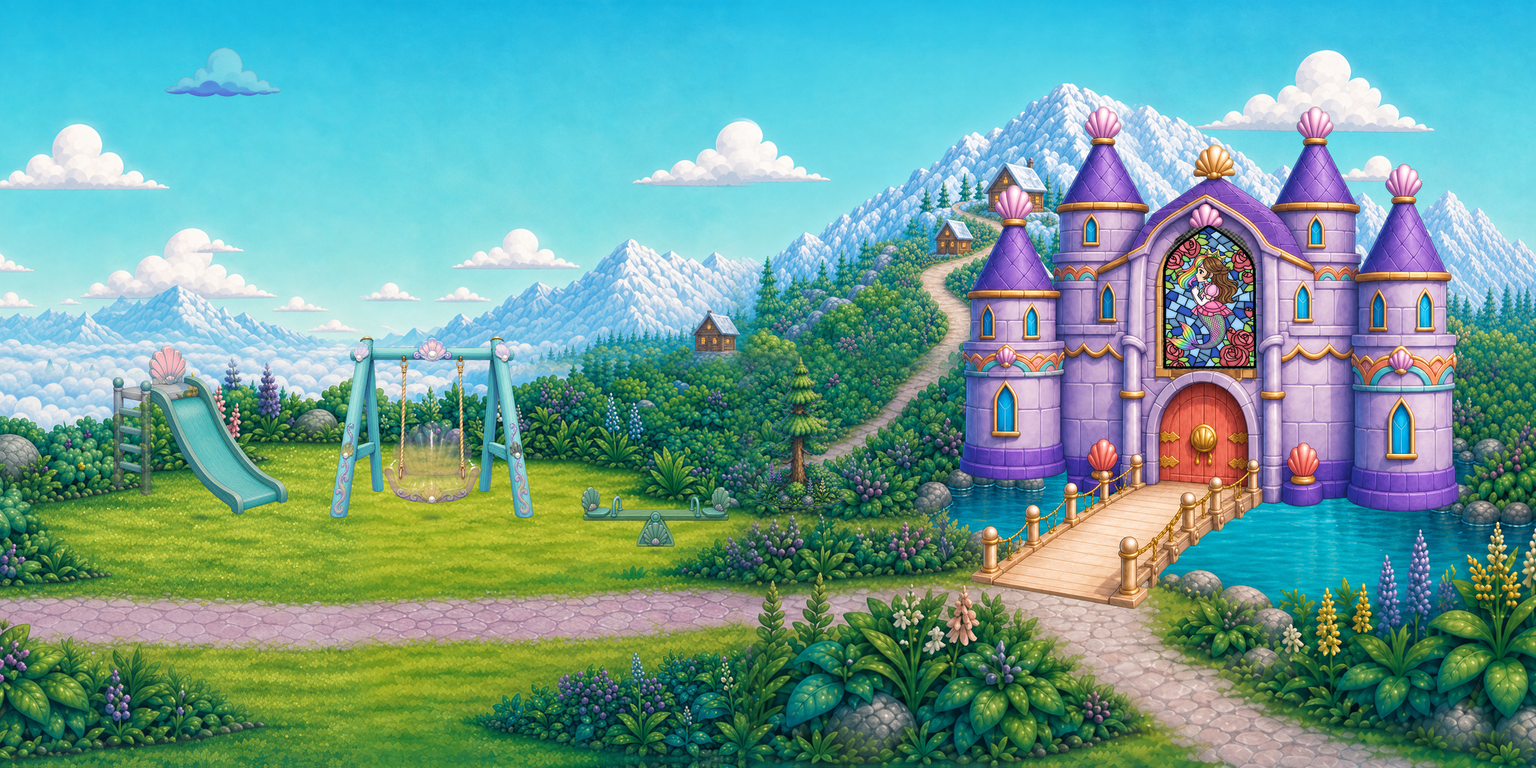
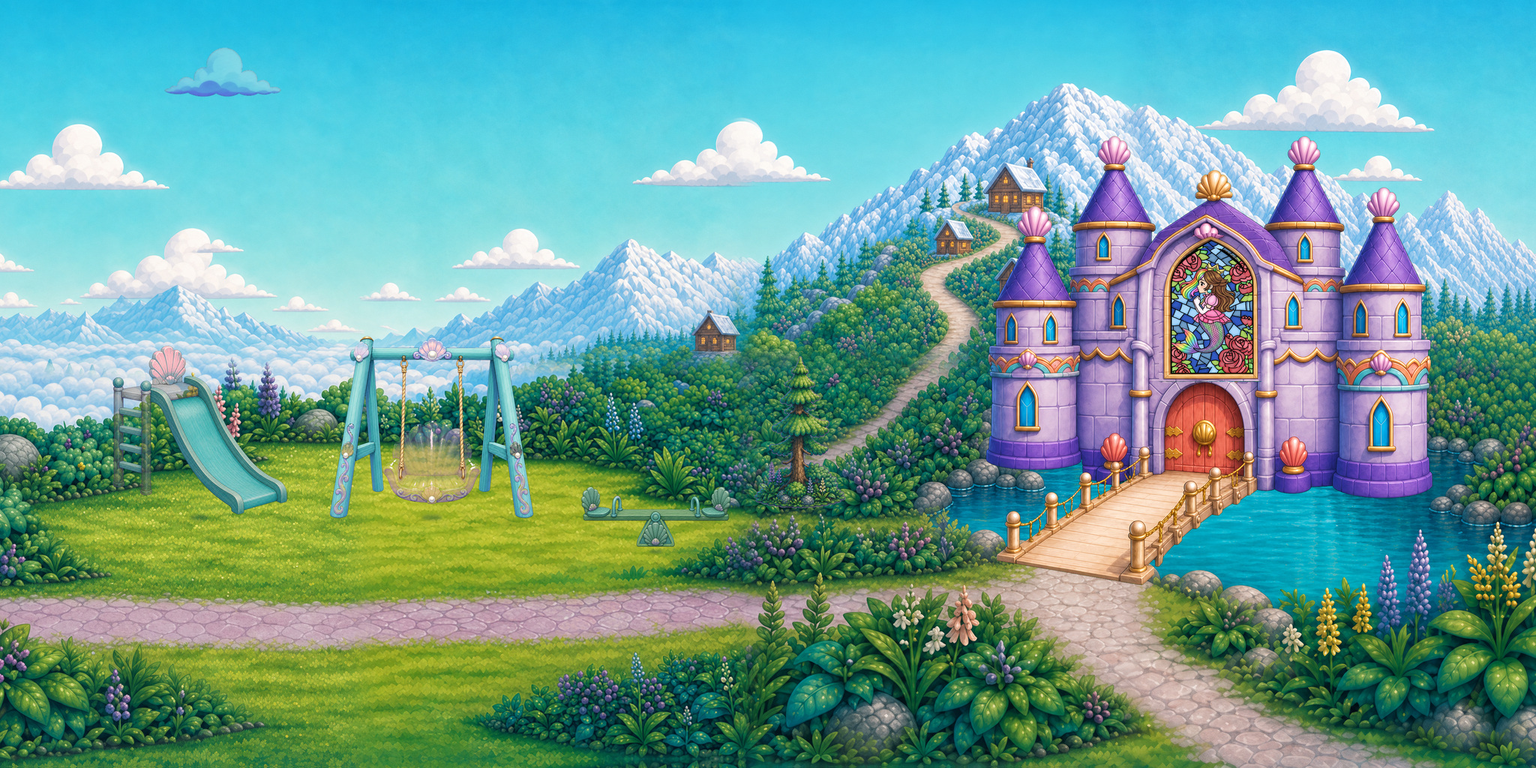
Fix castle frame and focus only the door

Changed region(s): [[0.625, 0.125, 0.9688, 0.8125]]

diff --git a/tools/prepare_sky_lagoon_castle_symmetry.py b/tools/prepare_sky_lagoon_castle_symmetry.py
@@ -16,13 +16,22 @@ RAW_CARD = SOURCE_DIR / "four_tower_candidate_transparent_raw.png"
 FALLBACK_CARD = (
 	ROOT / "assets/sprites/sky_lagoon/sky_lagoon_castle_stained_glass_v1.png"
 )
+V3_CARD = (
+	ROOT / "assets/sprites/sky_lagoon/sky_lagoon_castle_four_tower_v3.png"
+)
+FRAME_REPAIR_SOURCE = (
+	SOURCE_DIR / "frame_restore_ring_source.png"
+)
 OWNER_STAINED_GLASS = (
 	ROOT
 	/ "assets_src/sky_lagoon/reductive_rebuild_2026-07-28"
 	/ "stained_glass_owner_reference.png"
 )
 OUTPUT_CARD = (
-	ROOT / "assets/sprites/sky_lagoon/sky_lagoon_castle_four_tower_v3.png"
+	ROOT / "assets/sprites/sky_lagoon/sky_lagoon_castle_four_tower_v4.png"
+)
+DOOR_HIGHLIGHT = (
+	ROOT / "assets/sprites/sky_lagoon/sky_lagoon_castle_door_focus_v1.png"
 )
 AUDIT_REPORT = SOURCE_DIR / "four_tower_fit_audit.json"
 
@@ -44,6 +53,56 @@ OWNER_CROP = (101, 8, 780, 1176)
 GUTTER = 10
 MAX_EDGE = 1024
 BRIDGE_AUDIT_FRACTION = 0.90
+
+# The tightly scoped repair candidate supplies only its clean lavender/gold
+# ring. The owner panel and every other castle pixel remain from the accepted
+# four-tower card; the candidate's changed castle, door, bridge, and glass are
+# explicitly rejected.
+FRAME_REPAIR_SOURCE_BOX = (0, 0, 249, 360)
+RESTORED_FRAME_TARGET_BOX = (396, 225, 629, 560)
+RESTORED_FRAME_ALLOWED_BOX = (395, 223, 631, 563)
+RESTORED_FRAME_POLYGON = (
+	(512, 225),
+	(556, 235),
+	(589, 256),
+	(614, 290),
+	(627, 329),
+	(627, 560),
+	(398, 560),
+	(398, 329),
+	(411, 290),
+	(436, 256),
+	(469, 235),
+)
+GLASS_SAFE_POLYGON = (
+	(512, 257),
+	(546, 264),
+	(572, 281),
+	(589, 309),
+	(597, 339),
+	(597, 527),
+	(427, 527),
+	(427, 339),
+	(435, 309),
+	(452, 281),
+	(478, 264),
+)
+
+# Door mask is intentionally inside the lavender stone arch. It becomes a
+# small cropped focus texture, avoiding a second full-castle transparent quad.
+DOOR_MASK_POLYGON = (
+	(512, 560),
+	(548, 569),
+	(579, 592),
+	(598, 628),
+	(604, 660),
+	(604, 780),
+	(414, 780),
+	(414, 660),
+	(421, 628),
+	(445, 592),
+	(476, 569),
+)
 
 # The approved fallback's world transform is the placement contract. The new
 # card derives its height, center, and bridge-axis offset from these values so
@@ -134,6 +193,60 @@ def _placement_contract(
 	}
 
 
+def _restore_clean_frame(
+	card: Image.Image,
+	_window_polygon: list[tuple[int, int]],
+) -> tuple[Image.Image, tuple[int, ...]]:
+	with Image.open(FRAME_REPAIR_SOURCE) as repair_source:
+		repair = repair_source.convert("RGBA")
+	frame = repair.crop(FRAME_REPAIR_SOURCE_BOX).resize(
+		(
+			RESTORED_FRAME_TARGET_BOX[2] - RESTORED_FRAME_TARGET_BOX[0],
+			RESTORED_FRAME_TARGET_BOX[3] - RESTORED_FRAME_TARGET_BOX[1],
+		),
+		Image.Resampling.LANCZOS,
+	)
+	layer = Image.new("RGBA", card.size)
+	layer.paste(
+		frame,
+		(RESTORED_FRAME_TARGET_BOX[0], RESTORED_FRAME_TARGET_BOX[1]),
+		frame,
+	)
+	outer_mask = Image.new("L", card.size, 0)
+	ImageDraw.Draw(outer_mask).polygon(RESTORED_FRAME_POLYGON, fill=255)
+	inner_mask = Image.new("L", card.size, 0)
+	ImageDraw.Draw(inner_mask).polygon(GLASS_SAFE_POLYGON, fill=255)
+	mask = ImageChops.subtract(outer_mask, inner_mask)
+	mask = mask.filter(ImageFilter.GaussianBlur(0.35))
+	before = card.copy()
+	card = Image.composite(layer, card, mask)
+	diff_box = ImageChops.difference(before, card).getbbox()
+	if diff_box is None:
+		raise RuntimeError("stained-glass frame repair made no change")
+	return card, diff_box
+
+
+def _build_door_highlight(card: Image.Image) -> tuple[Image.Image, tuple[int, ...]]:
+	mask = Image.new("L", card.size, 0)
+	ImageDraw.Draw(mask).polygon(DOOR_MASK_POLYGON, fill=255)
+	mask = ImageChops.multiply(mask, card.getchannel("A"))
+	mask = mask.filter(ImageFilter.GaussianBlur(0.55))
+	bounds = mask.getbbox()
+	if bounds is None:
+		raise RuntimeError("door focus mask is empty")
+	padding = 2
+	bounds = (
+		max(0, bounds[0] - padding),
+		max(0, bounds[1] - padding),
+		min(card.width, bounds[2] + padding),
+		min(card.height, bounds[3] + padding),
+	)
+	cropped_mask = mask.crop(bounds)
+	highlight = Image.new("RGBA", cropped_mask.size, (255, 255, 255, 0))
+	highlight.putalpha(cropped_mask)
+	return highlight, bounds
+
+
 def build() -> None:
 	with Image.open(RAW_CARD) as source:
 		raw = source.convert("RGBA")
@@ -204,6 +317,22 @@ def build() -> None:
 		raise RuntimeError(
 			f"stained-glass restoration escaped its frame: {diff_box}"
 		)
+	card, frame_diff_box = _restore_clean_frame(card, window_polygon)
+	with Image.open(V3_CARD) as v3_source:
+		v3_card = v3_source.convert("RGBA")
+	v3_diff_box = ImageChops.difference(v3_card, card).getbbox()
+	if v3_diff_box is None:
+		raise RuntimeError("v4 stained-glass frame repair made no change")
+	if (
+		v3_diff_box[0] < RESTORED_FRAME_ALLOWED_BOX[0]
+		or v3_diff_box[1] < RESTORED_FRAME_ALLOWED_BOX[1]
+		or v3_diff_box[2] > RESTORED_FRAME_ALLOWED_BOX[2]
+		or v3_diff_box[3] > RESTORED_FRAME_ALLOWED_BOX[3]
+	):
+		raise RuntimeError(
+			f"v4 frame repair escaped its allowed bounds: {v3_diff_box}"
+		)
+	door_highlight, door_bounds = _build_door_highlight(card)
 
 	alpha = card.getchannel("A")
 	if max(card.size) > MAX_EDGE:
@@ -231,6 +360,7 @@ def build() -> None:
 
 	OUTPUT_CARD.parent.mkdir(parents=True, exist_ok=True)
 	card.save(OUTPUT_CARD, optimize=True)
+	door_highlight.save(DOOR_HIGHLIGHT, optimize=True)
 	AUDIT_REPORT.parent.mkdir(parents=True, exist_ok=True)
 	AUDIT_REPORT.write_text(
 		json.dumps(
@@ -248,6 +378,16 @@ def build() -> None:
 				"stained_glass_changed_bounds": list(diff_box),
 				"stained_glass_allowed_bounds": list(allowed_box),
 				"outside_window_changed_pixels": 0,
+				"frame_repair_source": FRAME_REPAIR_SOURCE.relative_to(ROOT).as_posix(),
+				"frame_repair_source_sha256": _sha256(FRAME_REPAIR_SOURCE),
+				"restored_frame_changed_bounds": list(frame_diff_box),
+				"restored_frame_target_bounds": list(RESTORED_FRAME_TARGET_BOX),
+				"v3_to_v4_changed_bounds": list(v3_diff_box),
+				"v3_to_v4_allowed_bounds": list(RESTORED_FRAME_ALLOWED_BOX),
+				"outside_frame_changed_pixels": 0,
+				"door_highlight": DOOR_HIGHLIGHT.relative_to(ROOT).as_posix(),
+				"door_highlight_bounds_in_card": list(door_bounds),
+				"door_highlight_size": list(door_highlight.size),
 				"tower_hierarchy": {
 					"outer_towers": 2,
 					"inner_towers": 2,
@@ -265,6 +405,7 @@ def build() -> None:
 		encoding="utf-8",
 	)
 	print(OUTPUT_CARD)
+	print(DOOR_HIGHLIGHT)
 	print(AUDIT_REPORT)
 	print(
 		"transform="

diff --git a/tools/build_sky_lagoon_preview.py b/tools/build_sky_lagoon_preview.py
@@ -19,6 +19,11 @@ OUT_CASTLE_FIT = (
 	/ "assets_src/sky_lagoon/castle_symmetry_2026-07-29"
 	/ "qa_four_tower_fit_2screen.jpg"
 )
+OUT_CASTLE_FOCUS = (
+	ROOT
+	/ "assets_src/sky_lagoon/castle_symmetry_2026-07-29"
+	/ "qa_door_only_focus_2screen.jpg"
+)
 WORLD_LEFT = -72.0
 WORLD_TOP = 33.5
 WORLD_WIDTH = 144.0
@@ -33,12 +38,17 @@ def place(
 	world_height: float,
 	opacity: float = 1.0,
 	width_scale: float = 1.0,
+	tint: tuple[int, int, int] | None = None,
 ) -> None:
 	sprite = Image.open(ROOT / path).convert("RGBA")
 	scale = canvas.height / WORLD_HEIGHT
 	height = max(1, round(world_height * scale))
 	width = max(1, round(sprite.width * height / sprite.height * width_scale))
 	sprite = sprite.resize((width, height), Image.Resampling.LANCZOS)
+	if tint is not None:
+		alpha = sprite.getchannel("A")
+		sprite = Image.new("RGBA", sprite.size, (*tint, 0))
+		sprite.putalpha(alpha)
 	if opacity < 1.0:
 		sprite.putalpha(sprite.getchannel("A").point(lambda value: round(value * opacity)))
 	center_x = round((x - WORLD_LEFT) / WORLD_WIDTH * canvas.width)
@@ -69,10 +79,10 @@ def build_preview(show_plane: bool) -> Image.Image:
 	# plate deliberately has no duplicate facade underneath it.
 	place(
 		canvas,
-		"assets/sprites/sky_lagoon/sky_lagoon_castle_four_tower_v3.png",
+		"assets/sprites/sky_lagoon/sky_lagoon_castle_four_tower_v4.png",
 		51.572852,
-		11.2025,
-		31.805,
+		11.022284,
+		28.430568,
 	)
 
 	for path, x, y, height in (
@@ -115,6 +125,21 @@ def main() -> None:
 	).convert("RGB").save(
 		OUT_CASTLE_FIT, quality=94, subsampling=0, optimize=True
 	)
+	focused = day_one.copy()
+	place(
+		focused,
+		"assets/sprites/sky_lagoon/sky_lagoon_castle_door_focus_v1.png",
+		51.5312,
+		6.6083,
+		6.3302,
+		opacity=0.64,
+		tint=(255, 209, 64),
+	)
+	focused.crop((2048, 0, 6144, 2048)).resize(
+		(2048, 1024), Image.Resampling.LANCZOS
+	).convert("RGB").save(
+		OUT_CASTLE_FOCUS, quality=94, subsampling=0, optimize=True
+	)
 	for screen_index in range(3):
 		left = screen_index * 2048
 		day_one.crop((left, 0, left + 2048, 2048)).convert("RGB").save(
@@ -139,6 +164,7 @@ def main() -> None:
 	print(OUT_REVISIT)
 	print(OUT_SWING_FIT)
 	print(OUT_CASTLE_FIT)
+	print(OUT_CASTLE_FOCUS)
 
 
 if __name__ == "__main__":

diff --git a/assets_src/sky_lagoon/castle_symmetry_2026-07-29/README.md b/assets_src/sky_lagoon/castle_symmetry_2026-07-29/README.md
@@ -213,3 +213,50 @@ equal world width, equal base waterline, and equal bridge-landing coordinate.
 The measured contract is recorded in `four_tower_fit_audit.json`, and
 `qa_four_tower_fit_2screen.jpg` shows the unchanged playground/castle two-screen
 composition with no added lighting or post effect.
+
+## Stained-glass frame rollback and door-only focus
+
+Owner review rejected the v3 frame's uneven dark band and the runtime
+full-castle duplicate used as touch feedback. The accepted four-tower
+architecture remains the design authority.
+
+Built-in edit prompt:
+
+> Use case: precise-object-edit
+>
+> Asset type: production Sprite3D depth card for the Sky Lagoon castle in a
+> mobile children's storybook game
+>
+> Input images: Image 1 is the edit target and sole authority for the accepted
+> four-tower castle, perspective, scale, silhouette, bridge, door,
+> stained-glass artwork, palette, and all pixels outside the stained-glass
+> surround. Image 2 is the previously accepted castle and is the sole reference
+> for the cleaner stained-glass architectural surround/frame.
+>
+> Primary request: Revert only the sloppy stained-glass architectural surround
+> in Image 1 to the clean, intentional pointed lavender-and-gold surround
+> design from Image 2. Remove the uneven dark charcoal/black dotted band.
+> Preserve the stained-glass picture itself exactly and preserve its size and
+> placement in Image 1.
+>
+> Scene/backdrop: perfectly flat solid #00FF00 chroma-key background.
+>
+> Constraints: Change only the narrow architectural frame/surround immediately
+> bordering the stained-glass panel. Keep every other element unchanged:
+> exactly four towers, all roofs and shell finials, walls, windows, columns,
+> coral door and hardware, bridge and every post/rail, transparent padding,
+> owner stained-glass artwork, lighting, shading, colors, and outlines. No
+> highlight, glow, cast shadow, contact shadow, text, or watermark.
+
+The full returned frame candidate did not pass the preservation audit because
+it changed the camera, door, bridge, and stained-glass rendering. The rejected
+full candidate is not shipped. `frame_restore_ring_source.png` retains only its
+249x360 clean lavender/gold surround crop, and
+`tools/prepare_sky_lagoon_castle_symmetry.py` accepts it only inside
+`restored_frame_target_bounds`; v4 remains exact to the accepted four-tower
+card outside that bounded repair.
+
+The same tool creates `sky_lagoon_castle_door_focus_v1.png` as a small
+door-footprint alpha mask from v4. Runtime holds the castle card unchanged and
+pulses this aligned door mask in place after the first tap. It never scales,
+tints, or duplicates the full castle.

diff --git a/ASSET_LICENSES.md b/ASSET_LICENSES.md
@@ -539,6 +539,19 @@ ambientCG (all CC0).
   fitting are deterministic in `tools/prepare_sky_lagoon_castle_symmetry.py`;
   runtime width, waterline, and bridge landing match the approved fallback.
   No external references; generated and prepared 2026-07-29.
+- `assets_src/sky_lagoon/castle_symmetry_2026-07-29/frame_restore_ring_source.png`
+  — 249x360 project-original crop from an OpenAI built-in precision-edit
+  candidate derived only from the approved v3 and v1 castle cards. The rejected
+  full candidate is not shipped; only its bounded clean lavender/gold window
+  surround is retained for the deterministic preparation tool.
+- `assets/sprites/sky_lagoon/sky_lagoon_castle_four_tower_v4.png` —
+  non-destructive v3 derivative that replaces only the audited stained-glass
+  surround with the bounded clean-frame repair. The four-tower silhouette,
+  door, bridge, placement contract, and neutral base lighting remain unchanged.
+- `assets/sprites/sky_lagoon/sky_lagoon_castle_door_focus_v1.png` —
+  deterministic 199x228 alpha mask cropped from the v4 castle door footprint;
+  used only for reversible touch feedback so no full-castle duplicate is drawn.
+  No external source or newly painted subject pixels.
 
 ## Sky Lagoon playground fit revision (Codex, 2026-07-29)
 - `assets_src/sky_lagoon/playground_revision_2026-07-29/**` — project-original
